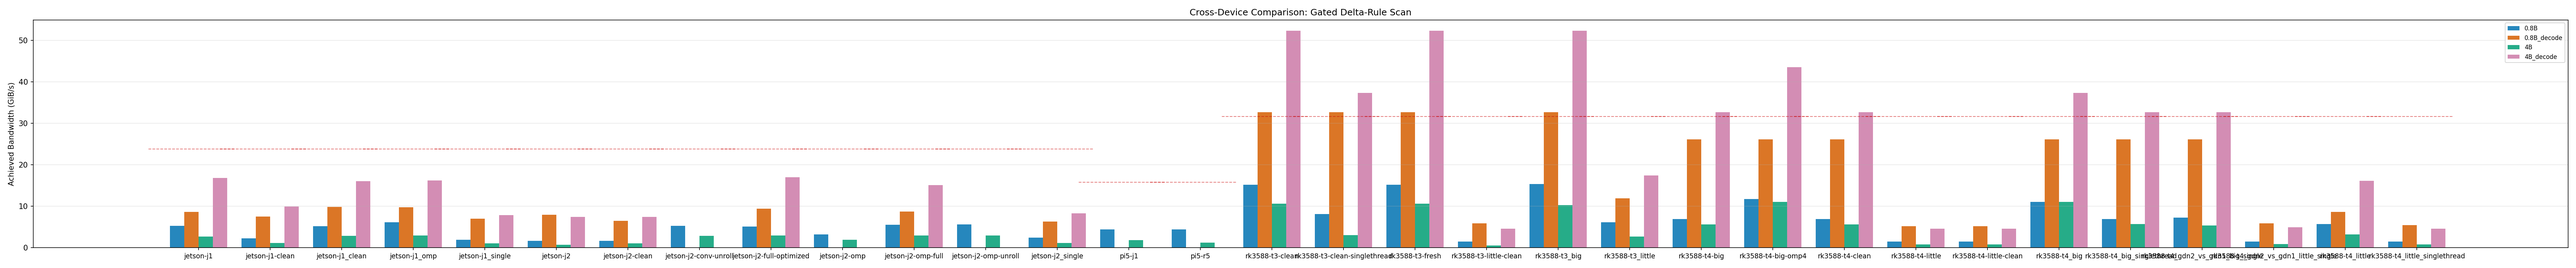
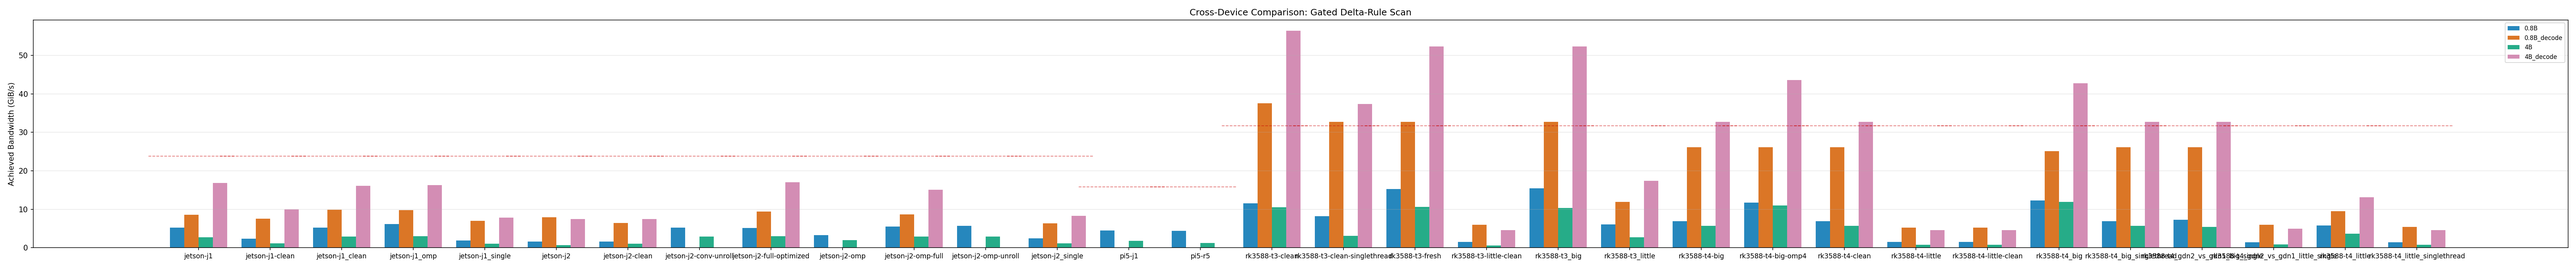
t3: regenerate stale plots/tables (bench/plots.py full regen)
- harness_tables.md: add t3 sdot variant tables (int4/int8_sdot)
- t4 tables: numeric refresh from committed CSVs
- PNG figures: regenerated with current data
- README.md: correct figure/table counts

diff --git a/results/figures/rk3588-t4_little_table.md b/results/figures/rk3588-t4_little_table.md
@@ -4,38 +4,38 @@ _Source: committed CSVs in results/raw/_
 
 | Model | Kernel | Dispatch | Channels | p50 (µs) | p95 (µs) | Spread | GiB/s | GFLOP/s |
 |---|---|---|---:|---:|---:|---:|---:|---:|
-| Qwen3.5-4B | Gated Cumulative Decay | neon | 4,096 | 336.0 | 371.3 | 10.5% | 5.81 | 0.78 |
-| Qwen3.5-4B | Gated Delta-Rule Scan | neon | 4,096 | 908.0 | 1,070.2 | 17.9% | 3.26 | 0.58 |
-| Qwen3.5-4B | Causal Depthwise Conv1D | neon | 4,096 | 400.8 | 439.0 | 9.5% | 5.14 | 5.23 |
-| Qwen3.5-4B | gdn_cumdecay_f16 | neon | 4,096 | 221.7 | 255.8 | 15.4% | 6.61 | 1.18 |
-| Qwen3.5-4B | gdn_gated_scan_f16 | neon | 4,096 | 895.8 | 1,015.9 | 13.4% | 3.29 | 0.59 |
-| Qwen3.5-4B | gdn_cumdecay_bf16 | neon | 4,096 | 247.9 | 267.8 | 8.0% | 5.91 | 1.06 |
-| Qwen3.5-4B | gdn_gated_scan_bf16 | neon | 4,096 | 893.1 | 974.2 | 9.1% | 3.30 | 0.59 |
-| Qwen3.5-4B | gdn2_gated_scan | neon | 4,096 | 3,129.5 | 3,521.8 | 12.5% | 1.57 | 0.34 |
-| Qwen3.5-0.8B | Gated Cumulative Decay | neon | 2,048 | 152.6 | 153.4 | 0.6% | 6.40 | 0.86 |
-| Qwen3.5-0.8B | Gated Delta-Rule Scan | neon | 2,048 | 257.6 | 301.0 | 16.9% | 5.75 | 1.02 |
-| Qwen3.5-0.8B | Causal Depthwise Conv1D | neon | 2,048 | 143.8 | 146.4 | 1.8% | 7.16 | 7.29 |
-| Qwen3.5-0.8B | gdn_cumdecay_f16 | neon | 2,048 | 110.8 | 112.6 | 1.6% | 6.61 | 1.18 |
-| Qwen3.5-0.8B | gdn_gated_scan_f16 | neon | 2,048 | 257.9 | 277.7 | 7.7% | 5.71 | 1.02 |
-| Qwen3.5-0.8B | gdn_cumdecay_bf16 | neon | 2,048 | 124.6 | 127.5 | 2.3% | 5.88 | 1.05 |
-| Qwen3.5-0.8B | gdn_gated_scan_bf16 | neon | 2,048 | 257.9 | 278.9 | 8.1% | 5.71 | 1.02 |
-| Qwen3.5-0.8B | gdn2_gated_scan | neon | 2,048 | 595.3 | 681.1 | 14.4% | 4.13 | 0.88 |
+| Qwen3.5-4B | Gated Cumulative Decay | neon | 4,096 | 335.7 | 375.7 | 11.9% | 5.82 | 0.78 |
+| Qwen3.5-4B | Gated Delta-Rule Scan | neon | 4,096 | 802.4 | 1,107.0 | 37.9% | 3.69 | 0.65 |
+| Qwen3.5-4B | Causal Depthwise Conv1D | neon | 4,096 | 399.9 | 416.8 | 4.2% | 5.15 | 5.24 |
+| Qwen3.5-4B | gdn_cumdecay_f16 | neon | 4,096 | 219.6 | 238.9 | 8.8% | 6.67 | 1.19 |
+| Qwen3.5-4B | gdn_gated_scan_f16 | neon | 4,096 | 774.4 | 833.1 | 7.6% | 3.80 | 0.68 |
+| Qwen3.5-4B | gdn_cumdecay_bf16 | neon | 4,096 | 246.2 | 267.2 | 8.5% | 5.95 | 1.06 |
+| Qwen3.5-4B | gdn_gated_scan_bf16 | neon | 4,096 | 793.4 | 849.1 | 7.0% | 3.71 | 0.66 |
+| Qwen3.5-4B | gdn2_gated_scan | neon | 4,096 | 2,983.1 | 3,191.3 | 7.0% | 1.65 | 0.35 |
+| Qwen3.5-0.8B | Gated Cumulative Decay | neon | 2,048 | 152.6 | 177.6 | 16.4% | 6.40 | 0.86 |
+| Qwen3.5-0.8B | Gated Delta-Rule Scan | neon | 2,048 | 256.1 | 295.2 | 15.3% | 5.78 | 1.02 |
+| Qwen3.5-0.8B | Causal Depthwise Conv1D | neon | 2,048 | 143.8 | 144.4 | 0.4% | 7.16 | 7.29 |
+| Qwen3.5-0.8B | gdn_cumdecay_f16 | neon | 2,048 | 112.6 | 114.0 | 1.3% | 6.51 | 1.16 |
+| Qwen3.5-0.8B | gdn_gated_scan_f16 | neon | 2,048 | 255.5 | 270.7 | 5.9% | 5.76 | 1.03 |
+| Qwen3.5-0.8B | gdn_cumdecay_bf16 | neon | 2,048 | 126.0 | 127.2 | 0.9% | 5.81 | 1.04 |
+| Qwen3.5-0.8B | gdn_gated_scan_bf16 | neon | 2,048 | 255.8 | 270.1 | 5.6% | 5.76 | 1.02 |
+| Qwen3.5-0.8B | gdn2_gated_scan | neon | 2,048 | 605.0 | 620.1 | 2.5% | 4.06 | 0.87 |
 | Qwen3.5-4B_decode | Gated Cumulative Decay | neon | 4,096 | 3.8 | 4.1 | 7.7% | 8.05 | 1.08 |
-| Qwen3.5-4B_decode | Gated Delta-Rule Scan | neon | 4,096 | 4.7 | 5.5 | 15.4% | 16.15 | 1.73 |
-| Qwen3.5-4B_decode | Causal Depthwise Conv1D | neon | 4,096 | 14.6 | 14.9 | 2.0% | 9.42 | 2.25 |
-| Qwen3.5-4B_decode | gdn_cumdecay_f16 | neon | 4,096 | 4.5 | 4.7 | 3.8% | 5.05 | 0.90 |
-| Qwen3.5-4B_decode | gdn_gated_scan_f16 | neon | 4,096 | 5.4 | 5.6 | 2.9% | 11.21 | 1.51 |
-| Qwen3.5-4B_decode | gdn_cumdecay_bf16 | neon | 4,096 | 4.6 | 5.0 | 8.6% | 4.95 | 0.89 |
-| Qwen3.5-4B_decode | gdn_gated_scan_bf16 | neon | 4,096 | 6.1 | 6.3 | 2.6% | 10.00 | 1.34 |
-| Qwen3.5-4B_decode | gdn2_gated_scan | neon | 4,096 | 9.8 | 9.9 | 1.4% | 10.91 | 1.67 |
-| Qwen3.5-0.8B_decode | Gated Cumulative Decay | neon | 2,048 | 3.7 | 3.9 | 3.7% | 4.08 | 0.55 |
-| Qwen3.5-0.8B_decode | Gated Delta-Rule Scan | neon | 2,048 | 4.4 | 4.6 | 3.6% | 8.62 | 0.93 |
-| Qwen3.5-0.8B_decode | Causal Depthwise Conv1D | neon | 2,048 | 9.7 | 9.9 | 1.6% | 7.07 | 1.69 |
-| Qwen3.5-0.8B_decode | gdn_cumdecay_f16 | neon | 2,048 | 3.8 | 3.9 | 1.6% | 2.98 | 0.53 |
-| Qwen3.5-0.8B_decode | gdn_gated_scan_f16 | neon | 2,048 | 4.4 | 4.5 | 3.5% | 6.96 | 0.93 |
-| Qwen3.5-0.8B_decode | gdn_cumdecay_bf16 | neon | 2,048 | 4.1 | 4.2 | 3.6% | 2.80 | 0.50 |
-| Qwen3.5-0.8B_decode | gdn_gated_scan_bf16 | neon | 2,048 | 4.6 | 4.8 | 3.2% | 6.59 | 0.88 |
-| Qwen3.5-0.8B_decode | gdn2_gated_scan | neon | 2,048 | 6.5 | 6.7 | 2.5% | 8.16 | 1.25 |
+| Qwen3.5-4B_decode | Gated Delta-Rule Scan | neon | 4,096 | 5.8 | 6.1 | 5.0% | 13.12 | 1.41 |
+| Qwen3.5-4B_decode | Causal Depthwise Conv1D | neon | 4,096 | 14.9 | 15.2 | 1.8% | 9.21 | 2.20 |
+| Qwen3.5-4B_decode | gdn_cumdecay_f16 | neon | 4,096 | 4.6 | 4.8 | 3.3% | 4.93 | 0.88 |
+| Qwen3.5-4B_decode | gdn_gated_scan_f16 | neon | 4,096 | 5.5 | 5.7 | 2.7% | 11.04 | 1.48 |
+| Qwen3.5-4B_decode | gdn_cumdecay_bf16 | neon | 4,096 | 5.2 | 5.3 | 2.7% | 4.44 | 0.79 |
+| Qwen3.5-4B_decode | gdn_gated_scan_bf16 | neon | 4,096 | 6.2 | 6.3 | 2.2% | 9.91 | 1.33 |
+| Qwen3.5-4B_decode | gdn2_gated_scan | neon | 4,096 | 10.0 | 10.2 | 2.3% | 10.67 | 1.64 |
+| Qwen3.5-0.8B_decode | Gated Cumulative Decay | neon | 2,048 | 3.7 | 3.9 | 4.4% | 4.10 | 0.55 |
+| Qwen3.5-0.8B_decode | Gated Delta-Rule Scan | neon | 2,048 | 4.0 | 4.6 | 14.7% | 9.53 | 1.02 |
+| Qwen3.5-0.8B_decode | Causal Depthwise Conv1D | neon | 2,048 | 9.8 | 10.0 | 1.7% | 6.97 | 1.66 |
+| Qwen3.5-0.8B_decode | gdn_cumdecay_f16 | neon | 2,048 | 3.9 | 4.0 | 3.5% | 2.94 | 0.53 |
+| Qwen3.5-0.8B_decode | gdn_gated_scan_f16 | neon | 2,048 | 4.4 | 4.7 | 6.2% | 6.88 | 0.92 |
+| Qwen3.5-0.8B_decode | gdn_cumdecay_bf16 | neon | 2,048 | 3.7 | 4.2 | 11.2% | 3.07 | 0.55 |
+| Qwen3.5-0.8B_decode | gdn_gated_scan_bf16 | neon | 2,048 | 4.7 | 4.8 | 3.2% | 6.56 | 0.88 |
+| Qwen3.5-0.8B_decode | gdn2_gated_scan | neon | 2,048 | 6.7 | 6.8 | 2.3% | 8.00 | 1.23 |
 
 ## Achieved vs Spec Bandwidth
 
@@ -44,35 +44,35 @@ _Source: committed CSVs in results/raw/_
 
 | Kernel | Achieved (GiB/s) | % of Spec | p50 (µs) | Spread |
 |---|---:|---:|---:|---:|
-| Gated Cumulative Decay | 5.81 | 18.3% | 336.0 | 10.5% |
-| Gated Delta-Rule Scan | 3.26 | 10.3% | 908.0 | 17.9% |
-| Causal Depthwise Conv1D | 5.14 | 16.2% | 400.8 | 9.5% |
-| gdn_cumdecay_f16 | 6.61 | 20.9% | 221.7 | 15.4% |
-| gdn_gated_scan_f16 | 3.29 | 10.4% | 895.8 | 13.4% |
-| gdn_cumdecay_bf16 | 5.91 | 18.6% | 247.9 | 8.0% |
-| gdn_gated_scan_bf16 | 3.30 | 10.4% | 893.1 | 9.1% |
-| gdn2_gated_scan | 1.57 | 5.0% | 3,129.5 | 12.5% |
-| Gated Cumulative Decay | 6.40 | 20.2% | 152.6 | 0.6% |
-| Gated Delta-Rule Scan | 5.75 | 18.1% | 257.6 | 16.9% |
-| Causal Depthwise Conv1D | 7.16 | 22.6% | 143.8 | 1.8% |
-| gdn_cumdecay_f16 | 6.61 | 20.9% | 110.8 | 1.6% |
-| gdn_gated_scan_f16 | 5.71 | 18.0% | 257.9 | 7.7% |
-| gdn_cumdecay_bf16 | 5.88 | 18.5% | 124.6 | 2.3% |
-| gdn_gated_scan_bf16 | 5.71 | 18.0% | 257.9 | 8.1% |
-| gdn2_gated_scan | 4.13 | 13.0% | 595.3 | 14.4% |
+| Gated Cumulative Decay | 5.82 | 18.4% | 335.7 | 11.9% |
+| Gated Delta-Rule Scan | 3.69 | 11.6% | 802.4 | 37.9% |
+| Causal Depthwise Conv1D | 5.15 | 16.2% | 399.9 | 4.2% |
+| gdn_cumdecay_f16 | 6.67 | 21.0% | 219.6 | 8.8% |
+| gdn_gated_scan_f16 | 3.80 | 12.0% | 774.4 | 7.6% |
+| gdn_cumdecay_bf16 | 5.95 | 18.8% | 246.2 | 8.5% |
+| gdn_gated_scan_bf16 | 3.71 | 11.7% | 793.4 | 7.0% |
+| gdn2_gated_scan | 1.65 | 5.2% | 2,983.1 | 7.0% |
+| Gated Cumulative Decay | 6.40 | 20.2% | 152.6 | 16.4% |
+| Gated Delta-Rule Scan | 5.78 | 18.2% | 256.1 | 15.3% |
+| Causal Depthwise Conv1D | 7.16 | 22.6% | 143.8 | 0.4% |
+| gdn_cumdecay_f16 | 6.51 | 20.5% | 112.6 | 1.3% |
+| gdn_gated_scan_f16 | 5.76 | 18.2% | 255.5 | 5.9% |
+| gdn_cumdecay_bf16 | 5.81 | 18.3% | 126.0 | 0.9% |
+| gdn_gated_scan_bf16 | 5.76 | 18.2% | 255.8 | 5.6% |
+| gdn2_gated_scan | 4.06 | 12.8% | 605.0 | 2.5% |
 | Gated Cumulative Decay | 8.05 | 25.4% | 3.8 | 7.7% |
-| Gated Delta-Rule Scan | 16.15 | 50.9% | 4.7 | 15.4% |
-| Causal Depthwise Conv1D | 9.42 | 29.7% | 14.6 | 2.0% |
-| gdn_cumdecay_f16 | 5.05 | 15.9% | 4.5 | 3.8% |
-| gdn_gated_scan_f16 | 11.21 | 35.4% | 5.4 | 2.9% |
-| gdn_cumdecay_bf16 | 4.95 | 15.6% | 4.6 | 8.6% |
-| gdn_gated_scan_bf16 | 10.00 | 31.5% | 6.1 | 2.6% |
-| gdn2_gated_scan | 10.91 | 34.4% | 9.8 | 1.4% |
-| Gated Cumulative Decay | 4.08 | 12.9% | 3.7 | 3.7% |
-| Gated Delta-Rule Scan | 8.62 | 27.2% | 4.4 | 3.6% |
-| Causal Depthwise Conv1D | 7.07 | 22.3% | 9.7 | 1.6% |
-| gdn_cumdecay_f16 | 2.98 | 9.4% | 3.8 | 1.6% |
-| gdn_gated_scan_f16 | 6.96 | 22.0% | 4.4 | 3.5% |
-| gdn_cumdecay_bf16 | 2.80 | 8.8% | 4.1 | 3.6% |
-| gdn_gated_scan_bf16 | 6.59 | 20.8% | 4.6 | 3.2% |
-| gdn2_gated_scan | 8.16 | 25.7% | 6.5 | 2.5% |
+| Gated Delta-Rule Scan | 13.12 | 41.4% | 5.8 | 5.0% |
+| Causal Depthwise Conv1D | 9.21 | 29.1% | 14.9 | 1.8% |
+| gdn_cumdecay_f16 | 4.93 | 15.6% | 4.6 | 3.3% |
+| gdn_gated_scan_f16 | 11.04 | 34.8% | 5.5 | 2.7% |
+| gdn_cumdecay_bf16 | 4.44 | 14.0% | 5.2 | 2.7% |
+| gdn_gated_scan_bf16 | 9.91 | 31.3% | 6.2 | 2.2% |
+| gdn2_gated_scan | 10.67 | 33.7% | 10.0 | 2.3% |
+| Gated Cumulative Decay | 4.10 | 12.9% | 3.7 | 4.4% |
+| Gated Delta-Rule Scan | 9.53 | 30.1% | 4.0 | 14.7% |
+| Causal Depthwise Conv1D | 6.97 | 22.0% | 9.8 | 1.7% |
+| gdn_cumdecay_f16 | 2.94 | 9.3% | 3.9 | 3.5% |
+| gdn_gated_scan_f16 | 6.88 | 21.7% | 4.4 | 6.2% |
+| gdn_cumdecay_bf16 | 3.07 | 9.7% | 3.7 | 11.2% |
+| gdn_gated_scan_bf16 | 6.56 | 20.7% | 4.7 | 3.2% |
+| gdn2_gated_scan | 8.00 | 25.2% | 6.7 | 2.3% |

diff --git a/results/figures/rk3588-t4_big_table.md b/results/figures/rk3588-t4_big_table.md
@@ -12,30 +12,30 @@ _Source: committed CSVs in results/raw/_
 | Qwen3.5-4B | gdn_cumdecay_bf16 | neon | 4,096 | 57.8 | 58.6 | 1.5% | 25.36 | 4.54 |
 | Qwen3.5-4B | gdn_gated_scan_bf16 | neon | 4,096 | 249.4 | 280.6 | 12.5% | 11.81 | 2.10 |
 | Qwen3.5-4B | gdn2_gated_scan | neon | 4,096 | 689.8 | 749.6 | 8.7% | 7.12 | 1.52 |
-| Qwen3.5-0.8B | Gated Cumulative Decay | neon | 2,048 | 38.5 | 39.7 | 3.0% | 25.36 | 3.40 |
-| Qwen3.5-0.8B | Gated Delta-Rule Scan | neon | 2,048 | 131.3 | 140.0 | 6.7% | 11.28 | 2.00 |
-| Qwen3.5-0.8B | Causal Depthwise Conv1D | neon | 2,048 | 45.5 | 46.1 | 1.3% | 22.64 | 23.04 |
-| Qwen3.5-0.8B | gdn_cumdecay_f16 | neon | 2,048 | 20.4 | 20.7 | 1.4% | 35.87 | 6.42 |
-| Qwen3.5-0.8B | gdn_gated_scan_f16 | neon | 2,048 | 128.9 | 132.7 | 2.9% | 11.42 | 2.03 |
-| Qwen3.5-0.8B | gdn_cumdecay_bf16 | neon | 2,048 | 28.3 | 28.6 | 1.0% | 25.89 | 4.63 |
-| Qwen3.5-0.8B | gdn_gated_scan_bf16 | neon | 2,048 | 130.7 | 139.7 | 6.9% | 11.27 | 2.01 |
-| Qwen3.5-0.8B | gdn2_gated_scan | neon | 2,048 | 297.5 | 315.3 | 6.0% | 8.26 | 1.76 |
+| Qwen3.5-0.8B | Gated Cumulative Decay | neon | 2,048 | 38.8 | 44.3 | 14.3% | 25.17 | 3.38 |
+| Qwen3.5-0.8B | Gated Delta-Rule Scan | neon | 2,048 | 120.8 | 126.6 | 4.8% | 12.26 | 2.17 |
+| Qwen3.5-0.8B | Causal Depthwise Conv1D | neon | 2,048 | 39.1 | 39.7 | 1.5% | 26.35 | 26.83 |
+| Qwen3.5-0.8B | gdn_cumdecay_f16 | neon | 2,048 | 19.5 | 20.4 | 4.5% | 37.48 | 6.71 |
+| Qwen3.5-0.8B | gdn_gated_scan_f16 | neon | 2,048 | 125.1 | 126.9 | 1.4% | 11.77 | 2.09 |
+| Qwen3.5-0.8B | gdn_cumdecay_bf16 | neon | 2,048 | 27.1 | 27.4 | 1.1% | 27.00 | 4.83 |
+| Qwen3.5-0.8B | gdn_gated_scan_bf16 | neon | 2,048 | 122.8 | 127.2 | 3.6% | 11.99 | 2.13 |
+| Qwen3.5-0.8B | gdn2_gated_scan | neon | 2,048 | 294.6 | 301.6 | 2.4% | 8.34 | 1.78 |
 | Qwen3.5-4B_decode | Gated Cumulative Decay | neon | 4,096 | 1.5 | 1.8 | 19.9% | 20.91 | 2.81 |
-| Qwen3.5-4B_decode | Gated Delta-Rule Scan | neon | 4,096 | 1.8 | 1.8 | 1.3% | 41.78 | 4.49 |
-| Qwen3.5-4B_decode | Causal Depthwise Conv1D | neon | 4,096 | 3.4 | 3.5 | 1.4% | 40.10 | 9.57 |
-| Qwen3.5-4B_decode | gdn_cumdecay_f16 | neon | 4,096 | 1.6 | 1.7 | 2.7% | 13.99 | 2.50 |
-| Qwen3.5-4B_decode | gdn_gated_scan_f16 | neon | 4,096 | 1.8 | 1.8 | 0.2% | 33.75 | 4.53 |
-| Qwen3.5-4B_decode | gdn_cumdecay_bf16 | neon | 4,096 | 1.8 | 1.8 | 0.2% | 12.56 | 2.25 |
+| Qwen3.5-4B_decode | Gated Delta-Rule Scan | neon | 4,096 | 1.8 | 1.9 | 6.5% | 42.74 | 4.59 |
+| Qwen3.5-4B_decode | Causal Depthwise Conv1D | neon | 4,096 | 3.6 | 3.6 | 1.4% | 38.31 | 9.14 |
+| Qwen3.5-4B_decode | gdn_cumdecay_f16 | neon | 4,096 | 1.6 | 1.7 | 3.0% | 13.99 | 2.50 |
+| Qwen3.5-4B_decode | gdn_gated_scan_f16 | neon | 4,096 | 1.8 | 1.8 | 0.5% | 33.43 | 4.49 |
+| Qwen3.5-4B_decode | gdn_cumdecay_bf16 | neon | 4,096 | 1.6 | 1.8 | 11.8% | 14.01 | 2.51 |
 | Qwen3.5-4B_decode | gdn_gated_scan_bf16 | neon | 4,096 | 2.1 | 2.1 | 0.3% | 28.59 | 3.84 |
-| Qwen3.5-4B_decode | gdn2_gated_scan | neon | 4,096 | 2.3 | 2.3 | 1.6% | 47.43 | 7.28 |
-| Qwen3.5-0.8B_decode | Gated Cumulative Decay | neon | 2,048 | 1.4 | 1.4 | 0.2% | 10.90 | 1.46 |
-| Qwen3.5-0.8B_decode | Gated Delta-Rule Scan | neon | 2,048 | 1.5 | 1.5 | 0.4% | 25.05 | 2.69 |
-| Qwen3.5-0.8B_decode | Causal Depthwise Conv1D | neon | 2,048 | 2.1 | 2.1 | 0.6% | 33.25 | 7.93 |
-| Qwen3.5-0.8B_decode | gdn_cumdecay_f16 | neon | 2,048 | 1.4 | 1.4 | 0.2% | 7.91 | 1.42 |
-| Qwen3.5-0.8B_decode | gdn_gated_scan_f16 | neon | 2,048 | 1.6 | 1.6 | 0.2% | 19.56 | 2.62 |
-| Qwen3.5-0.8B_decode | gdn_cumdecay_bf16 | neon | 2,048 | 1.5 | 1.5 | 0.2% | 7.40 | 1.32 |
-| Qwen3.5-0.8B_decode | gdn_gated_scan_bf16 | neon | 2,048 | 1.8 | 1.8 | 2.5% | 17.35 | 2.33 |
-| Qwen3.5-0.8B_decode | gdn2_gated_scan | neon | 2,048 | 1.6 | 1.6 | 0.9% | 33.84 | 5.19 |
+| Qwen3.5-4B_decode | gdn2_gated_scan | neon | 4,096 | 2.2 | 2.3 | 1.9% | 47.50 | 7.29 |
+| Qwen3.5-0.8B_decode | Gated Cumulative Decay | neon | 2,048 | 1.4 | 1.4 | 0.2% | 10.85 | 1.46 |
+| Qwen3.5-0.8B_decode | Gated Delta-Rule Scan | neon | 2,048 | 1.5 | 1.5 | 0.4% | 25.10 | 2.70 |
+| Qwen3.5-0.8B_decode | Causal Depthwise Conv1D | neon | 2,048 | 2.1 | 2.1 | 0.7% | 32.74 | 7.81 |
+| Qwen3.5-0.8B_decode | gdn_cumdecay_f16 | neon | 2,048 | 1.5 | 1.5 | 0.2% | 7.88 | 1.41 |
+| Qwen3.5-0.8B_decode | gdn_gated_scan_f16 | neon | 2,048 | 1.6 | 1.6 | 0.2% | 19.45 | 2.61 |
+| Qwen3.5-0.8B_decode | gdn_cumdecay_bf16 | neon | 2,048 | 1.6 | 1.6 | 0.2% | 7.37 | 1.32 |
+| Qwen3.5-0.8B_decode | gdn_gated_scan_bf16 | neon | 2,048 | 1.8 | 1.8 | 1.0% | 17.44 | 2.34 |
+| Qwen3.5-0.8B_decode | gdn2_gated_scan | neon | 2,048 | 1.6 | 1.6 | 1.7% | 33.72 | 5.17 |
 
 ## Achieved vs Spec Bandwidth
 
@@ -52,27 +52,27 @@ _Source: committed CSVs in results/raw/_
 | gdn_cumdecay_bf16 | 25.36 | 80.0% | 57.8 | 1.5% |
 | gdn_gated_scan_bf16 | 11.81 | 37.3% | 249.4 | 12.5% |
 | gdn2_gated_scan | 7.12 | 22.5% | 689.8 | 8.7% |
-| Gated Cumulative Decay | 25.36 | 80.0% | 38.5 | 3.0% |
-| Gated Delta-Rule Scan | 11.28 | 35.6% | 131.3 | 6.7% |
-| Causal Depthwise Conv1D | 22.64 | 71.4% | 45.5 | 1.3% |
-| gdn_cumdecay_f16 | 35.87 | 113.2% | 20.4 | 1.4% |
-| gdn_gated_scan_f16 | 11.42 | 36.0% | 128.9 | 2.9% |
-| gdn_cumdecay_bf16 | 25.89 | 81.7% | 28.3 | 1.0% |
-| gdn_gated_scan_bf16 | 11.27 | 35.6% | 130.7 | 6.9% |
-| gdn2_gated_scan | 8.26 | 26.1% | 297.5 | 6.0% |
+| Gated Cumulative Decay | 25.17 | 79.4% | 38.8 | 14.3% |
+| Gated Delta-Rule Scan | 12.26 | 38.7% | 120.8 | 4.8% |
+| Causal Depthwise Conv1D | 26.35 | 83.1% | 39.1 | 1.5% |
+| gdn_cumdecay_f16 | 37.48 | 118.2% | 19.5 | 4.5% |
+| gdn_gated_scan_f16 | 11.77 | 37.1% | 125.1 | 1.4% |
+| gdn_cumdecay_bf16 | 27.00 | 85.2% | 27.1 | 1.1% |
+| gdn_gated_scan_bf16 | 11.99 | 37.8% | 122.8 | 3.6% |
+| gdn2_gated_scan | 8.34 | 26.3% | 294.6 | 2.4% |
 | Gated Cumulative Decay | 20.91 | 66.0% | 1.5 | 19.9% |
-| Gated Delta-Rule Scan | 41.78 | 131.8% | 1.8 | 1.3% |
-| Causal Depthwise Conv1D | 40.10 | 126.5% | 3.4 | 1.4% |
-| gdn_cumdecay_f16 | 13.99 | 44.1% | 1.6 | 2.7% |
-| gdn_gated_scan_f16 | 33.75 | 106.5% | 1.8 | 0.2% |
-| gdn_cumdecay_bf16 | 12.56 | 39.6% | 1.8 | 0.2% |
+| Gated Delta-Rule Scan | 42.74 | 134.8% | 1.8 | 6.5% |
+| Causal Depthwise Conv1D | 38.31 | 120.9% | 3.6 | 1.4% |
+| gdn_cumdecay_f16 | 13.99 | 44.1% | 1.6 | 3.0% |
+| gdn_gated_scan_f16 | 33.43 | 105.5% | 1.8 | 0.5% |
+| gdn_cumdecay_bf16 | 14.01 | 44.2% | 1.6 | 11.8% |
 | gdn_gated_scan_bf16 | 28.59 | 90.2% | 2.1 | 0.3% |
-| gdn2_gated_scan | 47.43 | 149.6% | 2.3 | 1.6% |
-| Gated Cumulative Decay | 10.90 | 34.4% | 1.4 | 0.2% |
-| Gated Delta-Rule Scan | 25.05 | 79.0% | 1.5 | 0.4% |
-| Causal Depthwise Conv1D | 33.25 | 104.9% | 2.1 | 0.6% |
-| gdn_cumdecay_f16 | 7.91 | 25.0% | 1.4 | 0.2% |
-| gdn_gated_scan_f16 | 19.56 | 61.7% | 1.6 | 0.2% |
-| gdn_cumdecay_bf16 | 7.40 | 23.3% | 1.5 | 0.2% |
-| gdn_gated_scan_bf16 | 17.35 | 54.7% | 1.8 | 2.5% |
-| gdn2_gated_scan | 33.84 | 106.8% | 1.6 | 0.9% |
+| gdn2_gated_scan | 47.50 | 149.8% | 2.2 | 1.9% |
+| Gated Cumulative Decay | 10.85 | 34.2% | 1.4 | 0.2% |
+| Gated Delta-Rule Scan | 25.10 | 79.2% | 1.5 | 0.4% |
+| Causal Depthwise Conv1D | 32.74 | 103.3% | 2.1 | 0.7% |
+| gdn_cumdecay_f16 | 7.88 | 24.9% | 1.5 | 0.2% |
+| gdn_gated_scan_f16 | 19.45 | 61.4% | 1.6 | 0.2% |
+| gdn_cumdecay_bf16 | 7.37 | 23.2% | 1.6 | 0.2% |
+| gdn_gated_scan_bf16 | 17.44 | 55.0% | 1.8 | 1.0% |
+| gdn2_gated_scan | 33.72 | 106.4% | 1.6 | 1.7% |

diff --git a/results/figures/harness_tables.md b/results/figures/harness_tables.md
@@ -35,11 +35,29 @@ _Source: committed CSVs from bench/harness.py_
 |---:|---:|---:|---:|---:|
 | 16 | 7.9 | 8.0 | 0.1 | 3 |
 
+**Qwen/Qwen3.5-0.8B — rk3588-t3_08b_big_int4_sdot — Decode**
+
+| Context | p50 (tok/s) | p95 (tok/s) | Spread | Repeats |
+|---:|---:|---:|---:|---:|
+| 20 | 35.1 | 35.4 | 0.3 | 3 |
+
 **Qwen/Qwen3.5-0.8B — rk3588-t3_08b_big_int8 — Decode**
 
 | Context | p50 (tok/s) | p95 (tok/s) | Spread | Repeats |
 |---:|---:|---:|---:|---:|
 | 16 | 10.6 | 10.7 | 0.1 | 3 |
+
+**Qwen/Qwen3.5-0.8B — rk3588-t3_08b_big_int8_sdot — Decode**
+
+| Context | p50 (tok/s) | p95 (tok/s) | Spread | Repeats |
+|---:|---:|---:|---:|---:|
+| 20 | 25.6 | 25.7 | 0.1 | 3 |
+
+**Qwen/Qwen3.5-0.8B — rk3588-t3_08b_little_int4_sdot — Decode**
+
+| Context | p50 (tok/s) | p95 (tok/s) | Spread | Repeats |
+|---:|---:|---:|---:|---:|
+| 20 | 9.0 | 9.1 | 0.0 | 3 |
 
 **Qwen/Qwen3.5-0.8B — rk3588-t3_08b_little_int8 — Decode**
 
@@ -47,17 +65,41 @@ _Source: committed CSVs from bench/harness.py_
 |---:|---:|---:|---:|---:|
 | 20 | 2.4 | 2.4 | 0.0 | 2 |
 
+**Qwen/Qwen3.5-0.8B — rk3588-t3_08b_little_int8_sdot — Decode**
+
+| Context | p50 (tok/s) | p95 (tok/s) | Spread | Repeats |
+|---:|---:|---:|---:|---:|
+| 20 | 9.3 | 9.4 | 0.0 | 3 |
+
 **Qwen/Qwen3.5-0.8B — rk3588-t4_08b_big — Decode**
 
 | Context | p50 (tok/s) | p95 (tok/s) | Spread | Repeats |
 |---:|---:|---:|---:|---:|
 | 8 | 8.2 | 8.3 | 0.1 | 3 |
 
+**Qwen/Qwen3.5-0.8B — rk3588-t4_08b_big_int4_sdot — Decode**
+
+| Context | p50 (tok/s) | p95 (tok/s) | Spread | Repeats |
+|---:|---:|---:|---:|---:|
+| 20 | 35.7 | 36.3 | 0.6 | 3 |
+
 **Qwen/Qwen3.5-0.8B — rk3588-t4_08b_big_int8 — Decode**
 
 | Context | p50 (tok/s) | p95 (tok/s) | Spread | Repeats |
 |---:|---:|---:|---:|---:|
 | 8 | 10.0 | 10.1 | 0.1 | 3 |
+
+**Qwen/Qwen3.5-0.8B — rk3588-t4_08b_big_int8_sdot — Decode**
+
+| Context | p50 (tok/s) | p95 (tok/s) | Spread | Repeats |
+|---:|---:|---:|---:|---:|
+| 20 | 30.2 | 30.3 | 0.1 | 3 |
+
+**Qwen/Qwen3.5-0.8B — rk3588-t4_08b_little_int4_sdot — Decode**
+
+| Context | p50 (tok/s) | p95 (tok/s) | Spread | Repeats |
+|---:|---:|---:|---:|---:|
+| 20 | 10.7 | 10.8 | 0.1 | 3 |
 
 **Qwen/Qwen3.5-4B — jetson-j1 — Decode**
 
@@ -83,11 +125,29 @@ _Source: committed CSVs from bench/harness.py_
 |---:|---:|---:|---:|---:|
 | 16 | 1.0 | 1.0 | 0.0 | 3 |
 
+**Qwen/Qwen3.5-4B — rk3588-t3_big_int4_sdot — Decode**
+
+| Context | p50 (tok/s) | p95 (tok/s) | Spread | Repeats |
+|---:|---:|---:|---:|---:|
+| 20 | 4.2 | 4.2 | 0.0 | 3 |
+
 **Qwen/Qwen3.5-4B — rk3588-t3_big_int8 — Decode**
 
 | Context | p50 (tok/s) | p95 (tok/s) | Spread | Repeats |
 |---:|---:|---:|---:|---:|
 | 16 | 1.8 | 1.9 | 0.0 | 3 |
+
+**Qwen/Qwen3.5-4B — rk3588-t3_big_int8_sdot — Decode**
+
+| Context | p50 (tok/s) | p95 (tok/s) | Spread | Repeats |
+|---:|---:|---:|---:|---:|
+| 20 | 2.8 | 2.8 | 0.0 | 3 |
+
+**Qwen/Qwen3.5-4B — rk3588-t3_little_int4_sdot — Decode**
+
+| Context | p50 (tok/s) | p95 (tok/s) | Spread | Repeats |
+|---:|---:|---:|---:|---:|
+| 20 | 1.1 | 1.1 | 0.0 | 3 |
 
 **Qwen/Qwen3.5-4B — rk3588-t3_little_int8 — Decode**
 
@@ -95,17 +155,47 @@ _Source: committed CSVs from bench/harness.py_
 |---:|---:|---:|---:|---:|
 | 20 | 0.5 | 0.5 | 0.0 | 2 |
 
+**Qwen/Qwen3.5-4B — rk3588-t3_little_int8_sdot — Decode**
+
+| Context | p50 (tok/s) | p95 (tok/s) | Spread | Repeats |
+|---:|---:|---:|---:|---:|
+| 20 | 1.3 | 1.3 | 0.0 | 3 |
+
 **Qwen/Qwen3.5-4B — rk3588-t4_big — Decode**
 
 | Context | p50 (tok/s) | p95 (tok/s) | Spread | Repeats |
 |---:|---:|---:|---:|---:|
 | 8 | 1.1 | 1.1 | 0.0 | 3 |
 
+**Qwen/Qwen3.5-4B — rk3588-t4_big_int4_sdot — Decode**
+
+| Context | p50 (tok/s) | p95 (tok/s) | Spread | Repeats |
+|---:|---:|---:|---:|---:|
+| 20 | 4.5 | 4.5 | 0.0 | 3 |
+
 **Qwen/Qwen3.5-4B — rk3588-t4_big_int8 — Decode**
 
 | Context | p50 (tok/s) | p95 (tok/s) | Spread | Repeats |
 |---:|---:|---:|---:|---:|
 | 8 | 1.8 | 1.8 | 0.0 | 3 |
+
+**Qwen/Qwen3.5-4B — rk3588-t4_big_int8_sdot — Decode**
+
+| Context | p50 (tok/s) | p95 (tok/s) | Spread | Repeats |
+|---:|---:|---:|---:|---:|
+| 20 | 3.5 | 3.5 | 0.0 | 3 |
+
+**Qwen/Qwen3.5-4B — rk3588-t4_little_int4_sdot — Decode**
+
+| Context | p50 (tok/s) | p95 (tok/s) | Spread | Repeats |
+|---:|---:|---:|---:|---:|
+| 20 | 1.3 | 1.3 | 0.0 | 3 |
+
+**Qwen/Qwen3.5-4B — rk3588-t4_little_int8_sdot — Decode**
+
+| Context | p50 (tok/s) | p95 (tok/s) | Spread | Repeats |
+|---:|---:|---:|---:|---:|
+| 20 | 1.4 | 1.4 | 0.0 | 3 |
 
 **Qwen3.5-0.8B — rk3588-t4 — Decode**
 
